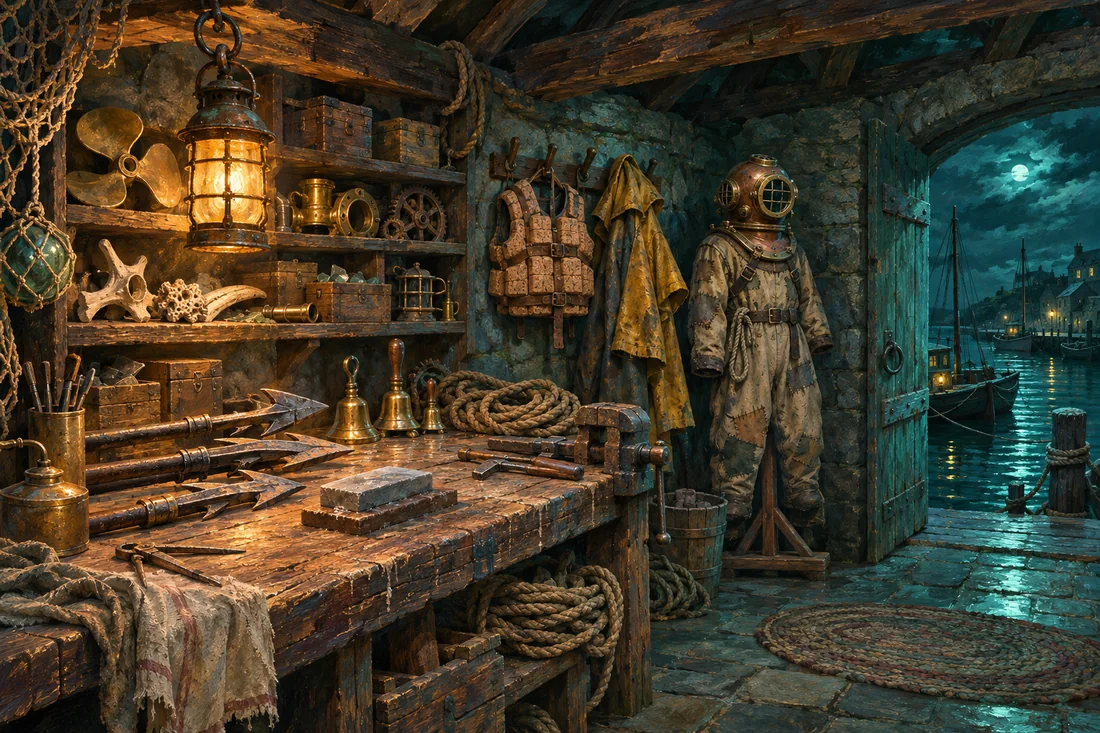
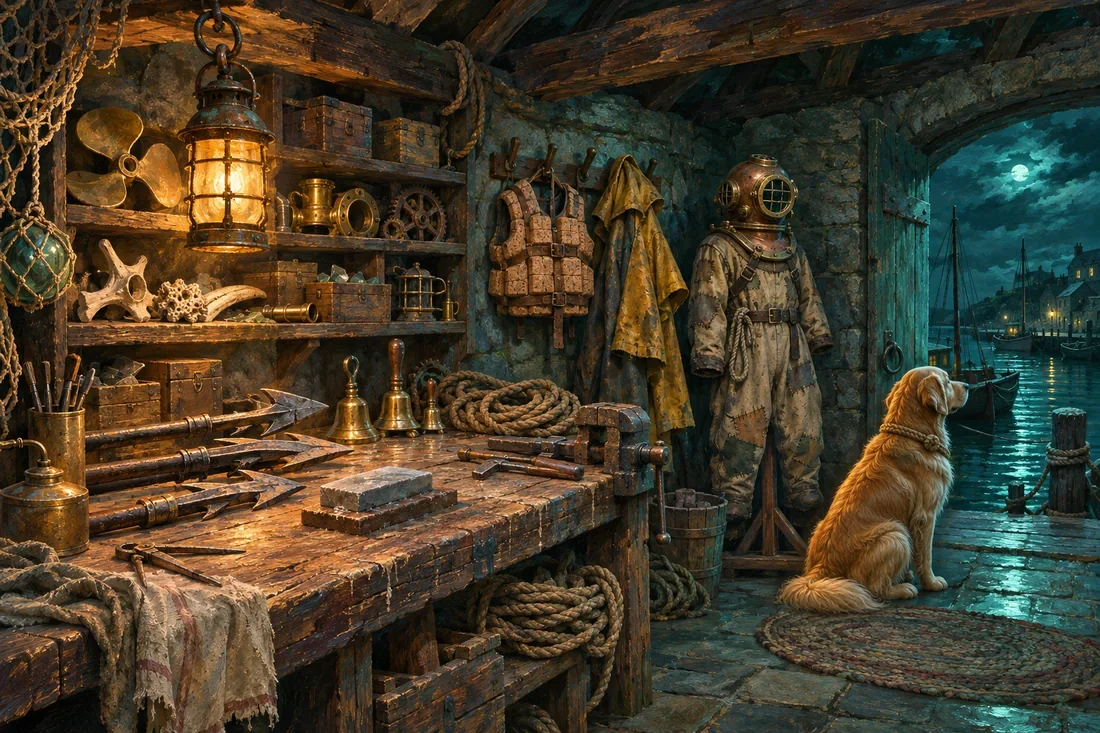
v0.44.0: Hester and Bosun in pictures: the first fall (a story scene, and every fall's end screen), coming home (Hester in the door, Bosun running ahead; lit once the Heart is home), the Heart's dawn (Hester on the gallery), Bosun in the Workshop's doorway; Hester worried in the opening

Changed region(s): [[0.7109, 0.4802, 0.8964, 0.8404]]

diff --git a/js/data.js b/js/data.js
@@ -1217,14 +1217,15 @@
       { art: 'scenes/op_fire', pos: '28% center', wide: '30% center', zoom: 1.08, sfx: 'bell',
         text: 'Tonight the bell rang by itself. Its magic pulled the Lantern Heart out of the lighthouse and down into the caves. Now the bell is flooding the caves and lifting the sea toward the town, a little higher with every tide.' },
       // v0.43.0: Hester and Bosun, who wait for Wren and bring her home when she falls (WORLD.md, "Who waits for Wren")
-      { art: 'scenes/op_home', pos: '74% center', wide: 'center 30%', zoom: 1.06,
+      { art: 'scenes/op_home', pos: '80% center', wide: 'center 30%', zoom: 1.06,
         text: 'Your lantern holds the last of that fire. Hester carried it for forty years before she gave it to you, and her knees will not take the tower stairs now. Her dog Bosun is already waiting on the step.' },
       { art: 'scenes/rest', pos: 'center', wide: 'left center', zoom: 1.6, fig: 'units/keeper',
         text: 'Your hand-bell moves water the way the great bell does. Take your lantern, your bell and your harpoon. Go down through the caves, fight what lives there, and bring the Lantern Heart home.' },
     ],
     /* Story scenes (v0.33.0, the user's idea): a few pictures with a few lines each, like the opening, the first time
        something big happens. `at` is when one plays: 'pin:<level>' as that level's pin breaks (before the choice to go
-       home or deeper), 'dress' on coming home with the diving dress, 'heart' on bringing the Heart home. A beat with
+       home or deeper), 'dress' on coming home with the diving dress, 'heart' on bringing the Heart home, 'fell' on the
+       first fall (its picture stays on every fall's end screen). A beat with
        `found` shows only when that kit was found there. The chapter that names a scene (`scene`) can play it again.
        The tutorial and debug-cheated runs play none. */
     scenes: {
@@ -1256,12 +1257,17 @@
         { art: 'bg/bg_belfry_boss', pos: '55% center', wide: 'center 40%', zoom: 1.04,
           text: 'Whatever lives down here has learned it too. Its young wear broken bronze for shells, and look for bigger bells as they grow. Far below, the Bellwether rings with no hand on its rope, and the Lantern Heart burns under it.' },
       ] },
+      // the first fall (v0.44.0, the user's request): Bosun brings her out of the surf; every later fall's end screen shows it
+      fall: { at: 'fell', beats: [
+        { art: 'scenes/sc_fall', pos: '45% center', wide: 'center 35%', zoom: 1.04,
+          text: 'The cold water closed over your lantern, and the sea gave you back. Bosun went in after you and dragged you out of the surf by your scarf, barking until Hester came down the rock with a lantern and a blanket. In your lantern an ember was still alight.' },
+      ] },
       heart: { at: 'heart', beats: [
         { art: 'scenes/sc_heart1', pos: 'center', wide: 'center 35%', zoom: 1.04, sfx: 'bell',
           text: 'The Bellwether\'s bronze breaks, and the Lantern Heart\'s light pours out through the water. Something lets go of it: a thing with one eye and many arms, which grew into the bell in the hundred years nobody came down. It sinks away into the dark under the floor. You do not know if you killed it.' },
         { art: 'scenes/sc_heart2', pos: '68% center', wide: 'center 25%', zoom: 1.04,
           text: 'You carry the Heart up three levels of stairs. The water runs away in front of it.' },
-        { art: 'scenes/op_lighthouse', pos: '78% center', wide: 'center top', zoom: 1.08,
+        { art: 'scenes/sc_heart3', pos: '45% center', wide: 'center 20%', zoom: 1.04,
           text: 'By dawn the great light of Saltmere is turning again. Hester is out on the gallery to see it, and Bosun will not stop barking. The sea has stopped rising, and the boats go out past the rocks.' },
         { art: 'scenes/ev_heartglow', pos: 'center', wide: 'center 60%', zoom: 1.04,
           text: 'The Bellwether is silent. But in the Belfry a faint light stayed behind where the Heart lay, and things still grow toward it. Saltmere will need a keeper who goes down.' },
@@ -1276,7 +1282,7 @@
     },
     chapters: [
       { id: 'night', title: 'The night the light went out', opening: true },
-      { id: 'fall', title: 'The sea gives you back', when: 'fell', lock: 'Fall in the Reach.', text: [
+      { id: 'fall', title: 'The sea gives you back', when: 'fell', lock: 'Fall in the Reach.', scene: 'fall', text: [
         'The cold water closed over your lantern, and you went under. The water the bell holds keeps everything it takes. The open sea does not: past the bell\'s reach it gives back what it takes, and it gave you back.',
         'Bosun went in after you and would not let go of your scarf. He swam you in to the shingle below the lighthouse, and barked until Hester saw your ember from the gallery and came down with a blanket. You woke under it, alive, with your harpoon beside you. Your lantern had burned down to an ember, but it was still alight.',
         'The keepsakes you found in the caves are gone: the bell called them back. The lighthouse is still dark, and the water stands a little higher on the stairs. You trim your lantern and go down again, and Bosun goes with you.',
@@ -1384,7 +1390,7 @@
         text: 'A lazaret is a ship\'s store locker, and also a house where the sick are kept apart. The keepers\' Lazaret is a little of both. A keepsake fresh from the Reach still answers the Bellwether, and the bell calls it back if its finder falls. One night shut in the Lazaret breaks that pull. After that the keepsake answers its keeper, and it turns up in the Lazaret again even if she leaves it behind in the caves. Hester keeps the key.' },
       { id: 'hester', title: 'Hester', when: 'home', lock: 'Come home from an expedition.', art: 'scenes/op_home',
         text: 'Hester kept the light for forty years. She taught you to trim a wick, to read the tide-board and to ring a hand-bell so the water listens. When her knees gave out on the tower stairs she gave you her lantern, and the keeping with it, so she is not a keeper any more. Like every keeper since the Lost Lamplighter, she never went down the stair. What she knows of the Reach is in the keepers\' book, which she keeps and you read. When you come home, the kettle is on.' },
-      { id: 'bosun', title: 'Bosun', when: 'fell', lock: 'Fall in the Reach.', art: 'scenes/op_home',
+      { id: 'bosun', title: 'Bosun', when: 'fell', lock: 'Fall in the Reach.', art: 'scenes/sc_fall',
         text: 'Bosun was Hester\'s dog first. He is big and golden and soft-mouthed, and he has pulled gulls, oars and once a fisherman\'s boy out of the harbour. He goes down the Reach with you and keeps back from a fight. When the held water takes you he goes in after you, and he does not let go of your scarf until the sea gives you back.' },
       { id: 'kelp', title: 'The old coast', when: 'ev:ambush', lock: 'Found in the Fog.', art: 'scenes/ev_ambush',
         text: 'Not everything in the Reach serves the bell. Crabs, eels, gulls and kelp lived on this coast long before it rang by itself. The flooding gave them more room, and they guard what they find in it.' },

diff --git a/js/ui.js b/js/ui.js
@@ -1334,7 +1334,7 @@
     // a scene covered the screen while it drew, so its main button never got the focus: give it now
     if (o.scene && overlayEl.hidden) { const f = document.querySelector('[autofocus]'); if (f) f.focus({ preventScroll: true }); }
   }
-  /* Play the story scene for `at` ('pin:0', 'pin:1', 'dress', 'heart') if it hasn't played yet, then call `done`. It
+  /* Play the story scene for `at` ('pin:0', 'pin:1', 'in:2', 'dress', 'heart', 'quiet', 'fell') if it hasn't played yet, then call `done`. It
      counts as played once it starts. The tutorial and debug-cheated runs play none (they open nothing in the story). */
   function playScene(at, done, go) {
     const id = Object.keys(BL.STORY.scenes).find((k) => BL.STORY.scenes[k].at === at);
@@ -3685,10 +3685,13 @@
     const text = win
       ? (run.heart ? E.band(run).win : run.quieted ? E.band(run).quiet : `You climb back up the drained stairs with everything you carry, and Bosun runs ahead to tell Hester. Behind you the bells start again, and the water creeps back over the landings. ${run.heartHome ? 'The great light turns over the town' : 'The lighthouse is still dark'}, and you know the way down now.`)
       : `The cold water closes over your lantern, and you go under. Past the bell's reach the sea gives you back, and Bosun drags you out of the surf by your scarf. ${run.heartHome ? 'The great light still turns over the town.' : 'The lighthouse is still dark, and the water has risen a little higher toward the town.'}`;
-    // once the Heart is home the lighthouse is lit, so a homecoming shows it lit; before that it is still dark
-    const endArt = win ? (run.heart || run.heartHome ? 'scenes/op_lighthouse' : 'bg/bg_title') : `bg/${E.band(run).bossBg}`;
+    /* v0.44.0: Hester and Bosun on the end screens. Bringing the Heart home shows her on the gallery as the light turns;
+       coming home shows her in the doorway with Bosun running ahead, the lamp lit once the Heart is home; a fall shows
+       Bosun bringing Wren out of the surf (the first fall's story scene). */
+    const endArt = win ? (run.heart ? 'scenes/sc_heart3' : run.heartHome ? 'scenes/end_home_lit' : 'scenes/end_home') : 'scenes/sc_fall';
+    const endPos = { 'scenes/sc_heart3': '45% center', 'scenes/sc_fall': '45% center' }[endArt] || '55% center'; // where the people are, on a phone
     // no HUD on the end screens, so the dimming layer starts at the very top (--hud-h: 0)
-    screenEl.innerHTML = `<div class="run-screen" style="--hud-h:0px"><div class="run-body"><div class="scene" style="background-image:url(img/${endArt}.webp)"><div class="scene-inner" style="padding-top:8vh">
+    screenEl.innerHTML = `<div class="run-screen" style="--hud-h:0px"><div class="run-body"><div class="scene" style="background-image:url(img/${endArt}.webp);background-position:${endPos}"><div class="scene-inner" style="padding-top:8vh">
       <h1>${title}</h1><p class="lead">${text}</p>
       ${scoreHTML}
       <div class="stats end-stats">${stats}</div>
@@ -3696,8 +3699,8 @@
     </div></div></div></div>`;
     const f = $('[autofocus]', screenEl);
     if (f) f.focus({ preventScroll: true });
-    // coming home with the dress or with the Heart has a story scene the first time; then what opened is told
-    if (fin.tell) { fin.tell = false; playScene(win && run.heart ? 'heart' : win && run.quieted ? 'quiet' : fin.laz && (fin.laz.found || []).indexOf('suit') >= 0 ? 'dress' : '', showNews, 'Home'); }
+    // coming home with the dress or with the Heart, and the first fall, have a story scene the first time; then what opened is told
+    if (fin.tell) { fin.tell = false; playScene(win && run.heart ? 'heart' : win && run.quieted ? 'quiet' : fin.laz && (fin.laz.found || []).indexOf('suit') >= 0 ? 'dress' : !win ? 'fell' : '', showNews, win ? 'Home' : 'Go on'); }
   }
 
   /* ================================================================== *

diff --git a/tests/ui-smoke.js b/tests/ui-smoke.js
@@ -25,7 +25,7 @@ const WORKERS = Math.max(1, Math.floor(+arg('workers', 4)) || 1);
 const failures = [];
 /* v0.33.0: a story scene plays the first time a pin breaks and on the end screen, and a "New at the lighthouse" window
    says what opened. The Belfry and Lazaret scenarios go through them; the others start with them seen and told. */
-const SEEN_SCENES = ['hermit', 'buoy', 'dress', 'heart'], TOLD = ['workshop', 'lazaret', 'suit', 'currents'];
+const SEEN_SCENES = ['hermit', 'buoy', 'dress', 'heart', 'fall'], TOLD = ['workshop', 'lazaret', 'suit', 'currents'];
 const QUIET_STORY = JSON.stringify(JSON.stringify({ opening: true, scenes: SEEN_SCENES }));
 const QUIET_META = `localStorage.setItem('brinelight.meta.v1', ${JSON.stringify(JSON.stringify({ told: TOLD }))});`;
 const log = (...a) => console.log(...a);
@@ -374,7 +374,7 @@ async function workshopScenario(page, base, name, size) {
   page.errors.length = 0;
   await page.goto(base + '?seed=4444');
   // stored in the v0.9.0 shape: gear owned and packed
-  await page.eval(`(() => { localStorage.clear(); localStorage.setItem('brinelight.prefs.v1', JSON.stringify({ sound: false, music: false, fast: true })); localStorage.setItem('brinelight.tutorial.v1', 'done'); localStorage.setItem('brinelight.story.v1', JSON.stringify({ opening: true }));
+  await page.eval(`(() => { localStorage.clear(); localStorage.setItem('brinelight.prefs.v1', JSON.stringify({ sound: false, music: false, fast: true })); localStorage.setItem('brinelight.tutorial.v1', 'done'); localStorage.setItem('brinelight.story.v1', JSON.stringify({ opening: true, scenes: ['fall'] }));
     localStorage.setItem('brinelight.meta.v1', JSON.stringify({ salvage: 60, earned: 60, owned: ['purse'], packed: ['purse'], ach: ['twocrests'] })); })()`);
   await page.goto(base + '?seed=4444');
   await inject(page);
@@ -779,6 +779,13 @@ async function storyScenario(page, base, name, size) {
   if (!marks.some((m) => m.indexOf('en:') === 0)) failures.push(`${name}: the first fight stored no story mark (${marks})`);
   await page.eval(`(() => { const B = window.Brinelight; B.run.hp = 0; B.run.combat.lost = true; B.onDefeat(); })()`);
   await page.waitFor('window.Brinelight.run && window.Brinelight.run.screen === "defeat" && !!document.querySelector(".story-new")', 5000, 'the fall on the end screen');
+  // the first fall plays its story scene over the end screen, and its picture stays behind it (v0.44.0)
+  if (!/sc_fall/.test(await page.eval(`(document.querySelector('#overlay .op-art') || {}).style ? document.querySelector('#overlay .op-art').style.backgroundImage : ''`))) failures.push(`${name}: the first fall didn't play its story scene`);
+  if (!/sc_fall/.test(await page.eval(`document.querySelector('.scene').style.backgroundImage`))) failures.push(`${name}: the fall's end screen doesn't show Bosun bringing Wren out`);
+  await checkPage(page, name + ' fall scene');
+  await page.click('#overlay [data-act="opnext"]');
+  await sleep(200);
+  await clickIf(page, '#overlay [data-act="newsok"]');
   await checkPage(page, name + ' defeat');
   await page.click('.story-new');
   await sleep(200);
@@ -891,6 +898,10 @@ async function lazaretScenario(page, base, name, size) {
   await dive('the third descent');
   if ((await keeps()) !== 'moonshard') failures.push(`${name}: a keepsake left at home came along (${await keeps()})`);
   await end('defeat', ['gullfeather']);
+  await sleep(200);
+  // the first fall's story scene plays over the end screen (v0.44.0)
+  if (!(await count('#overlay .opening'))) failures.push(`${name}: the first fall didn't play its story scene`);
+  await clickIf(page, '#overlay [data-act="opnext"]');
   await sleep(200);
   m = await stored();
   if (m.lazaret.join(',') !== 'anchor,tidewatch') failures.push(`${name}: a fall should lose the brought Moon Shard and keep what stayed home (${JSON.stringify(m.lazaret)})`);

diff --git a/tests/story.test.js b/tests/story.test.js
@@ -36,9 +36,9 @@ test('the opening is five pictures, each with its text and art that exists; the 
   assert.match(S.opening[3].text, /Bosun/);
 });
 
-test('story scenes: one for each pin above the last, one for the dress, one for going down into the Belfry, one for the Heart and one for the first quiet (the Dark Watch), each with pictures that exist and a chapter that replays it', () => {
+test('story scenes: one for each pin above the last, one for the dress, one for going down into the Belfry, one for the Heart, one for the first quiet (the Dark Watch) and one for the first fall, each with pictures that exist and a chapter that replays it', () => {
   const at = Object.values(S.scenes).map((sc) => sc.at);
-  assert.deepEqual(at.slice().sort(), E.LEVELS.slice(0, -1).map((L, i) => 'pin:' + i).concat(['dress', 'in:' + (E.LEVELS.length - 1), 'heart', 'quiet']).sort());
+  assert.deepEqual(at.slice().sort(), E.LEVELS.slice(0, -1).map((L, i) => 'pin:' + i).concat(['dress', 'in:' + (E.LEVELS.length - 1), 'heart', 'quiet', 'fell']).sort());
   Object.keys(S.scenes).forEach((id) => {
     const sc = S.scenes[id];
     assert.ok(sc.beats.length >= 1 && sc.beats.length <= 4, `${id}: a scene is one to four pictures`);
@@ -51,7 +51,7 @@ test('story scenes: one for each pin above the last, one for the dress, one for 
     assert.equal(S.chapters.filter((c) => c.scene === id).length, 1, `${id}: one chapter replays it`);
   });
   // the scene opens with the chapter that replays it: the same mark
-  const mark = { 'pin:0': 'won:0', 'pin:1': 'won:1', dress: 'won:1', 'in:2': 'in:2', heart: 'heart', quiet: 'quiet' };
+  const mark = { 'pin:0': 'won:0', 'pin:1': 'won:1', dress: 'won:1', 'in:2': 'in:2', heart: 'heart', quiet: 'quiet', fell: 'fell' };
   S.chapters.filter((c) => c.scene).forEach((c) => assert.equal(c.when, mark[S.scenes[c.scene].at], c.id));
   // the Belfry is named for the first time when Dark Water's pin breaks, and the dress is found there
   assert.match(S.scenes.buoy.beats[1].text, /The keepers called it the Belfry/);

diff --git a/js/version.js b/js/version.js
@@ -5,8 +5,13 @@
 (function () {
   'use strict';
   const BL = (globalThis.BL = globalThis.BL || {});
-  BL.VERSION = '0.43.0';
+  BL.VERSION = '0.44.0';
   BL.CHANGELOG = [
+    { v: '0.44.0', date: '2026-11-17', items: [
+      'New pictures of Hester and Bosun. The first time you fall, a picture shows Bosun dragging Wren out of the surf while Hester comes down the rock with a blanket, and every fall\'s end screen shows it after that.',
+      'Coming home shows Hester in the lighthouse door and Bosun running up the steps ahead of you, with the lamp lit once the Heart is home. Bringing the Heart home shows Hester on the gallery as the great light turns again.',
+      'In the opening, Hester looks worried as you go down the steps. In the Workshop, Bosun sits in the doorway, watching the harbour.',
+    ] },
     { v: '0.43.0', date: '2026-11-17', items: [
       'Wren is not alone. Hester, the old keeper who carried her lantern for forty years, waits at the lighthouse, and Hester\'s dog Bosun goes down the Reach with her. The opening has a new picture of them, and the story says who they are: Bosun pulls Wren out of the sea when it gives her back, waits by her lantern on the last dry step above the Belfry, and Hester keeps the key to the Lazaret.',
       'Two new Keeper\'s notes, Hester and Bosun, and entries for them in The world.',

diff --git a/WORLD.md b/WORLD.md
@@ -216,6 +216,7 @@ The suit still has to be carried home before it can be worn on a later expeditio
 - **Agreed (the user's idea and choices):** Wren is not alone. An old keeper waits at the lighthouse, and a dog goes down the Reach with her. They are lore only for now, and both leave room for mechanics later. Between them they explain how Wren gets home when she falls. The dog is a golden-retriever kind of dog, but the game never names its breed.
 - **Agreed (2026-11-17): the names Hester and Bosun** (the agent's, kept by the user).
 - **In the game (v0.43.0), as drafted below:** the opening's fourth picture (`img/scenes/op_home`: Hester in the lit doorway of the dark lighthouse, Wren on the steps with her lantern, Bosun beside her), *The sea gives you back*, the fall and homecoming screens, Into the Belfry (Bosun waits by the lantern on the last dry step, also in its first picture), the dress mended with Hester holding the lamp, the Heart (Hester on the gallery), the Dark Watch ("not even Hester"), the quiet (Bosun at the foot of the bed), the Lazaret's key, The world's Hester and Bosun, and two Keeper's notes. Bosun is "he" in the game.
+- **In the game (v0.44.0), pictures:** Hester looks worried in the opening picture as Wren goes down. The first fall plays a story scene (`img/scenes/sc_fall`: Bosun dragging Wren out of the surf by her scarf, Hester coming down the rock with a lantern and a blanket, the lantern an ember on the shingle), and that picture is behind every fall's end screen. Coming home shows Hester in the lighthouse door and Bosun running up the steps ahead of Wren (`end_home`; `end_home_lit` once the Heart is home). The Heart's dawn picture (`sc_heart3`) has Hester on the gallery as the great light turns, and Bosun barking on the rock below. The Workshop's picture has Bosun in it.
 - **Draft (the agent's details):**
   - **The old keeper, Hester.** She kept the light for forty years and taught Wren. The lantern Wren carries was hers. When her knees gave out on the tower stairs she handed it on, and the keeping with it. Without a lit lantern she is no longer a keeper, so Wren is still the last one. Like every keeper since the Lost Lamplighter, Hester never went down the stair. She knows the Reach only from the keepers' book, which she keeps and Wren reads. She is what makes the lighthouse home: the kettle, the patched oilskin, the key to the Lazaret, the bench in the boathouse where the dress was mended. She does not go down and does not fight. What she gives is what the book knows, and someone to come home to. Dev, the errand boy in the keeper drafts, runs her errands.
   - **The dog, Bosun.** Hester's dog first, and Wren's now: big, golden and soft-mouthed. It has pulled gulls, oars and once a fisherman's boy out of the harbour. It goes down with Wren through the Shallows and Dark Water and keeps back from fights, which is why a fight shows her alone. It cannot follow her under the sea. On the last dry step above the Belfry it lies down beside the open lantern she leaves there, and waits. In pictures its coat is the warm gold of lantern light against the teal Reach.
@@ -226,7 +227,6 @@ The suit still has to be carried home before it can be worn on a later expeditio
   - The keepers' notes in Story so far are pages of Hester's book, and the hints are her advice.
   - Hester says a word at home after each expedition: about a new creature, a pin broken, a fall.
   - The Dark Watch is Wren's fear that the light went out on her watch. With Hester watching from the gallery, it was Hester's light she let go out.
-  - Story text and pictures to change once they are in the game: the opening, *The sea gives you back*, and the homecomings.
 
 ## Places
 
@@ -234,7 +234,7 @@ Wren walks, wades, and climbs while the slow tide is out. Her coat and open lant
 
 - **In the game:** Saltmere has a lighthouse and its great light above the descent. Saltmere is named in the README and on the win screen.
 - **Agreed:** The Workshop is on the shore at Saltmere and is used between expeditions. Salvage, Workshop, and Kit are working names in `BL.META_TEXT` in js/data.js.
-- **In the game (v0.23.0):** The Workshop's picture is a low stone boathouse on the harbour: a workbench of harpoon heads, hand-bells and rope, shelves of salvage (brass, bone, gears, sea glass), the cork vest and oilskins on pegs, and the mended diving dress on a stand.
+- **In the game (v0.23.0):** The Workshop's picture is a low stone boathouse on the harbour: a workbench of harpoon heads, hand-bells and rope, shelves of salvage (brass, bone, gears, sea glass), the cork vest and oilskins on pegs, and the mended diving dress on a stand. Since v0.44.0 Bosun sits in its open doorway, watching the harbour.
 - **Agreed:** The Lazaret is the safe room at the lighthouse where keepsakes are stored. A lazaret is a ship's store locker, and also a quarantine house. It keeps the keepsakes' Roil in, so the aether around it stays Calm and nothing takes Seep. That is how Wren can keep many keepsakes close together at home. The Lazaret is in the game since v0.13.0.
 - **Agreed (v0.23.0, the agent's call):** The Lazaret is a low vaulted room at the foot of the lighthouse behind an iron-bound door. The keepsakes are kept in a tall ship's locker built into the curved wall: many small compartments, each shut with a little barred brass door and a hasp, part ship's store and part quarantine ward. Through the bars the keepsakes glow faintly. The Lazaret screen and the note *A night in the Lazaret* show it.
 - **In the game:** The Drowned Reach is the map of a single depth. **Agreed:** It will refer to the whole coast, crossed band by band during one expedition.

diff --git a/GAME_NOTES.md b/GAME_NOTES.md
@@ -1743,6 +1743,17 @@ Steps 1 and 2 of the build order above, which the user asked for ("Yes, do 1 and
 
 **The bloopers page (asked for a sketch only, not built):** "Outtakes" behind Credits, opened once the Heart is home like a post-credits reel. Two tabs, Pictures and Songs; each row the outtake (a picture, or a 15-30 s clip) and one line, "Asked for: ... Got: ...". Material: the art dropped in the v0.23.0 review, the first post-Hermit bell picture, keeper drafts, the metal song takes that came out as teen-angst screaming. About a day of work; clips, not whole songs, for size. Kept off the main path so it doesn't break the mood.
 
+### Hester and Bosun in pictures: the first fall, coming home, the Heart's dawn, the Workshop (v0.44.0, 2026-11-17)
+
+- **The user's calls:** Hester looks worried, not smiling, in the opening picture as Wren goes down. Art for the first fall, "a story-slide, but show it again on later defeats as well (but no separate slide)"; the coming-home end screen with Hester in the doorway and Bosun running ahead, instead of the plain dark lighthouse; Hester on the gallery in the Heart's pictures; the Workshop picture with "only Bosun".
+- **The opening** (`img/scenes/op_home`): a Codex edit of the picture (variant A of two; B looked down, sadder), with only her head pasted back (feathered ellipse), so every other pixel is the v0.43.0 picture. Brows drawn up, mouth tight. Its phone `pos` is now 80%, which shows Wren, Bosun and Hester's face (74% cut her off).
+- **The first fall** (`img/scenes/sc_fall`, Codex variant A of two; B put Wren at the edge): Bosun backing out of the surf with her scarf in his teeth, Wren limp on the shingle, her lantern on its side with an ember, the harpoon washed up, Hester hurrying down the rock path with a lantern and a blanket, the lamp room dark. A one-picture story scene `fall` (`at: 'fell'`) plays over the first fall's end screen (button "Go on"), and *The sea gives you back* replays it. Every fall's end screen shows the picture (it showed the level's pin background before), and the Bosun note uses it.
+- **Coming home** (`img/scenes/end_home`, Codex variant A of two): dawn, Wren from behind climbing the steps with her sack and lantern, Bosun bounding up ahead, Hester in the lit doorway with a hand on her heart, the lamp room dark. Once the Heart is home, `end_home_lit` (a Codex edit with the lamp lit and a beam, the top pasted back) instead of `op_lighthouse`.
+- **The Heart's dawn** (`img/scenes/sc_heart3`, Codex variant A of two): close on the lit lamp room at sunrise, Hester at the gallery rail, Bosun barking up from the rock, boats going out. It is the Heart scene's third picture (was `op_lighthouse`) and the end screen when the Heart comes home.
+- **The Workshop** (`img/scenes/workshop`): a Codex edit (variant A of two; B shifted the whole picture) with Bosun sitting in the open doorway watching the harbour, pasted back where it changed. His head is at mid-height, so the Workshop's wide banner (`.ws-art`, the middle band of the picture) shows him.
+- **End screens** set `background-position` per picture (`endPos` in `renderEnd`), so a phone shows the people: 45% for the fall and the Heart, 55% for the homecomings.
+- **Tests:** `story.test.js` expects the `fell` scene; `test:ui` counts `fall` as seen in the scenarios that end in a fall but aren't about it, and the story and Lazaret scenarios page through it (the story scenario checks the picture is under the end screen too).
+
 ### Hester and Bosun in the story, the Peal at 15 and Maelstrom (v0.43.0, 2026-11-17)
 
 - **The user's calls:** build the eleven text changes and two pictures the agent proposed for the old keeper and the dog (WORLD.md, "Who waits for Wren"); the Peal at 15 for each Crest or Strand; Grok's Maelstrom idea "if it doesn't become too powerful". The names Hester and Bosun are kept. The user also asked where else companion art could go (below).
